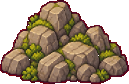
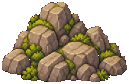
art: strip the baked dark outline from the 15 field decoration PNGs (originals kept for rollback)

Changed region(s): [[0.0, 0.0, 1.0, 1.0]]

diff --git a/tools/strip_decor_outline.py b/tools/strip_decor_outline.py
@@ -1,0 +1,103 @@
+"""Remove the dark maroon outline ring baked into the field decoration PNGs (owner 10/11/2026).
+
+The wild objects (`public/assets/art/ai-v1/iso/wilds/*.png`) were black keyed from the wilds sheet and carry a
+1-3 px dark red rim on their alpha edge. This peels that rim: in each pass, every opaque pixel that touches a
+transparent pixel (4-neighbourhood, or the image border) and has the outline colour becomes fully transparent.
+Inner dark details are never touched: only pixels on the current alpha edge are tested. No new art is drawn.
+
+Usage:
+    python tools/strip_decor_outline.py --backup docs/art-review/decor-outline/originals \\
+        public/assets/art/ai-v1/iso/wilds/*.png
+
+The first run copies each original into the backup folder; every run starts from that kept original, so running it
+twice gives the same files. Roll back by copying the originals back.
+"""
+
+import argparse
+import shutil
+import sys
+from pathlib import Path
+
+from PIL import Image
+
+DEFAULT_PASSES = 3
+
+
+def is_outline_colour(r, g, b):
+    """The rim colour: a dark, saturated maroon (red well above green and blue, all of it dark)."""
+    return 40 <= r <= 150 and g <= 50 and b <= 70 and r >= 2 * g + 20 and r > b
+
+
+def strip_outline(image, passes=DEFAULT_PASSES):
+    """A copy of `image` with up to `passes` outline rings made transparent, and the number of pixels removed."""
+    im = image.convert('RGBA').copy()
+    w, h = im.size
+    px = im.load()
+    removed = 0
+    for _ in range(passes):
+        kill = []
+        for y in range(h):
+            for x in range(w):
+                r, g, b, a = px[x, y]
+                if a == 0 or not is_outline_colour(r, g, b):
+                    continue
+                for nx, ny in ((x - 1, y), (x + 1, y), (x, y - 1), (x, y + 1)):
+                    if nx < 0 or ny < 0 or nx >= w or ny >= h or px[nx, ny][3] == 0:
+                        kill.append((x, y))
+                        break
+        if not kill:
+            break
+        for x, y in kill:
+            px[x, y] = (0, 0, 0, 0)
+        removed += len(kill)
+    # Stray rim-coloured specks the rings leave behind: at most one opaque 4-neighbour.
+    while True:
+        stray = []
+        for y in range(h):
+            for x in range(w):
+                if px[x, y][3] == 0:
+                    continue
+                near = sum(
+                    1
+                    for nx, ny in ((x - 1, y), (x + 1, y), (x, y - 1), (x, y + 1))
+                    if 0 <= nx < w and 0 <= ny < h and px[nx, ny][3] != 0
+                )
+                if near <= 1 and is_outline_colour(*px[x, y][:3]):
+                    stray.append((x, y))
+        if not stray:
+            break
+        for x, y in stray:
+            px[x, y] = (0, 0, 0, 0)
+        removed += len(stray)
+    return im, removed
+
+
+def process_files(files, backup_dir, passes=DEFAULT_PASSES):
+    """Strip every file in place, keeping (and reading from) its original in `backup_dir`. Returns {name: removed}."""
+    backup_dir = Path(backup_dir)
+    backup_dir.mkdir(parents=True, exist_ok=True)
+    report = {}
+    for f in sorted(Path(p) for p in files):
+        original = backup_dir / f.name
+        if not original.exists():
+            shutil.copy2(f, original)
+        with Image.open(original) as src:
+            out, removed = strip_outline(src, passes)
+        out.save(f)
+        report[f.name] = removed
+    return report
+
+
+def main(argv=None):
+    ap = argparse.ArgumentParser(description=__doc__.split('\n')[0])
+    ap.add_argument('--backup', required=True, help='folder that keeps the untouched originals')
+    ap.add_argument('--passes', type=int, default=DEFAULT_PASSES)
+    ap.add_argument('files', nargs='+')
+    args = ap.parse_args(argv)
+    for name, removed in process_files(args.files, args.backup, args.passes).items():
+        print(f'{name}: {removed} outline px removed')
+    return 0
+
+
+if __name__ == '__main__':
+    sys.exit(main())

diff --git a/tools/test_strip_decor_outline.py b/tools/test_strip_decor_outline.py
@@ -1,0 +1,92 @@
+import tempfile
+import unittest
+from pathlib import Path
+
+from PIL import Image
+
+from strip_decor_outline import is_outline_colour, process_files, strip_outline
+
+OUTLINE = (90, 6, 24, 255)
+FILL = (120, 160, 60, 255)
+DARK_INNER = (88, 8, 22, 255)
+
+
+def bush(size=12, ring=2):
+    """A square of FILL wrapped in `ring` rings of OUTLINE, on a transparent margin of 1, a dark inner pixel."""
+    w = size + 2
+    im = Image.new('RGBA', (w, w), (0, 0, 0, 0))
+    for y in range(1, w - 1):
+        for x in range(1, w - 1):
+            edge = min(x - 1, y - 1, w - 2 - x, w - 2 - y)
+            im.putpixel((x, y), OUTLINE if edge < ring else FILL)
+    im.putpixel((w // 2, w // 2), DARK_INNER)  # an inner dark detail that is not on the edge
+    return im
+
+
+class OutlineColourTest(unittest.TestCase):
+    def test_dark_maroon_is_outline_and_art_colours_are_not(self):
+        self.assertTrue(is_outline_colour(90, 6, 24))
+        self.assertTrue(is_outline_colour(120, 10, 30))
+        for rgb in [(120, 160, 60), (40, 60, 50), (200, 90, 40), (150, 150, 150), (230, 40, 40), (20, 30, 40)]:
+            self.assertFalse(is_outline_colour(*rgb), rgb)
+
+
+class StripTest(unittest.TestCase):
+    def test_peels_the_two_outline_rings_and_keeps_the_art(self):
+        im = bush()
+        out, removed = strip_outline(im, passes=2)
+        self.assertEqual(out.size, im.size)
+        self.assertEqual(removed, sum(1 for p in im.getdata() if p == OUTLINE))
+        self.assertTrue(all(p[3] == 0 or p[:3] != OUTLINE[:3] for p in out.getdata()))
+        c = im.width // 2
+        self.assertEqual(out.getpixel((c, c)), DARK_INNER)  # inner detail survives
+        self.assertEqual(out.getpixel((4, 4)), FILL)
+        self.assertEqual(im.getpixel((1, 1)), OUTLINE)  # the input is untouched
+
+    def test_one_pass_removes_only_the_outermost_ring(self):
+        out, removed = strip_outline(bush(), passes=1)
+        self.assertEqual(out.getpixel((1, 1))[3], 0)
+        self.assertEqual(out.getpixel((2, 2)), OUTLINE)
+        self.assertEqual(removed, 4 * 12 - 4)
+
+    def test_stray_rim_specks_go_too(self):
+        im = Image.new('RGBA', (7, 7), (0, 0, 0, 0))
+        for y in range(2, 5):
+            for x in range(2, 5):
+                im.putpixel((x, y), FILL)
+        im.putpixel((5, 3), OUTLINE)  # a rim pixel sticking out of the art
+        im.putpixel((6, 6), OUTLINE)  # a lone rim speck
+        out, removed = strip_outline(im, passes=0)
+        self.assertEqual(out.getpixel((6, 6))[3], 0)
+        self.assertEqual(out.getpixel((5, 3))[3], 0)  # one opaque neighbour: a speck too
+        self.assertEqual(removed, 2)
+        self.assertEqual(out.getpixel((3, 3)), FILL)
+
+    def test_art_on_the_edge_is_never_removed(self):
+        im = Image.new('RGBA', (5, 5), (0, 0, 0, 0))
+        for y in range(1, 4):
+            for x in range(1, 4):
+                im.putpixel((x, y), FILL)
+        out, removed = strip_outline(im)
+        self.assertEqual(removed, 0)
+        self.assertEqual(list(out.getdata()), list(im.getdata()))
+
+
+class FilesTest(unittest.TestCase):
+    def test_backs_up_once_and_reprocesses_from_the_original(self):
+        with tempfile.TemporaryDirectory() as d:
+            src = Path(d) / 'bush.png'
+            backup = Path(d) / 'originals'
+            bush().save(src)
+            first = process_files([src], backup, passes=2)
+            self.assertTrue((backup / 'bush.png').exists())
+            self.assertEqual(Image.open(backup / 'bush.png').getpixel((1, 1)), OUTLINE)
+            self.assertEqual(Image.open(src).getpixel((1, 1))[3], 0)
+            # A second run starts again from the kept original: same result, the backup unchanged.
+            second = process_files([src], backup, passes=2)
+            self.assertEqual(first, second)
+            self.assertEqual(Image.open(backup / 'bush.png').getpixel((1, 1)), OUTLINE)
+
+
+if __name__ == '__main__':
+    unittest.main()
